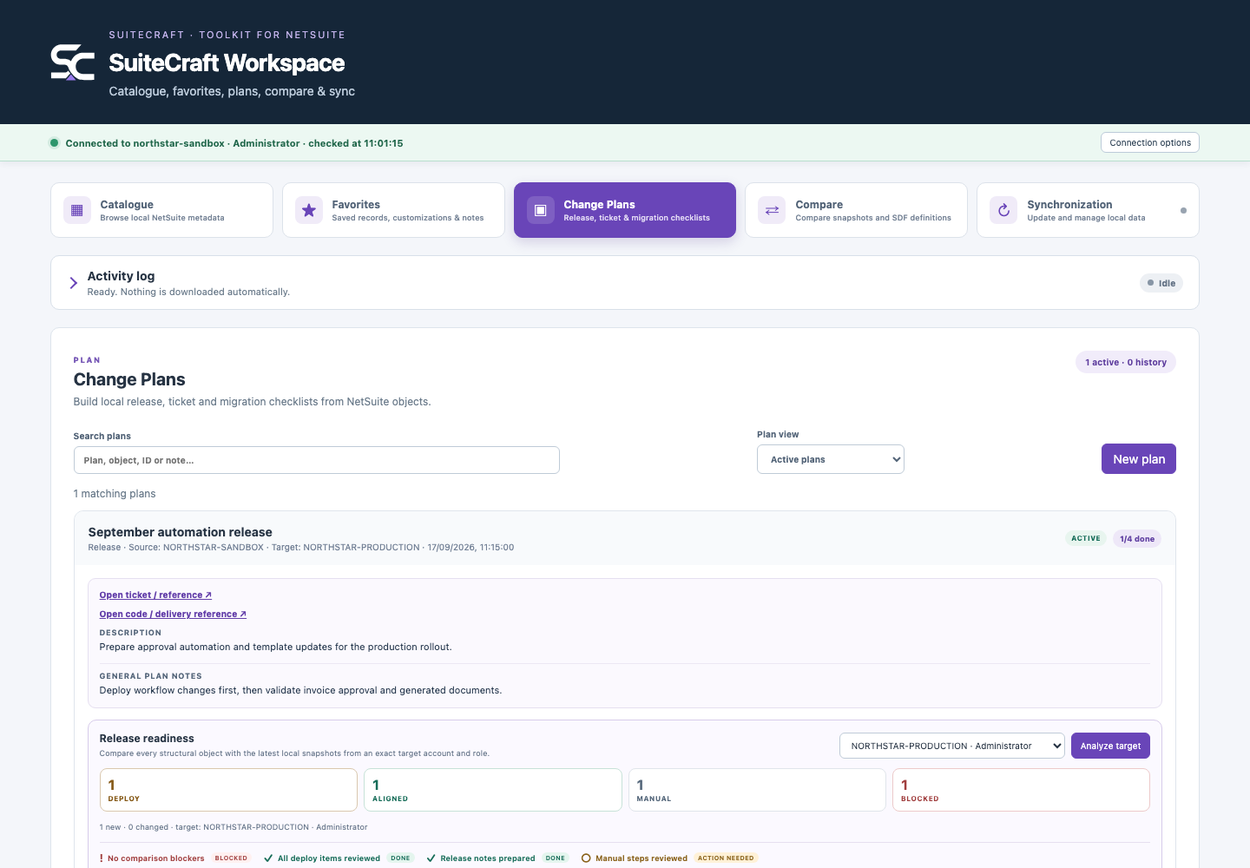
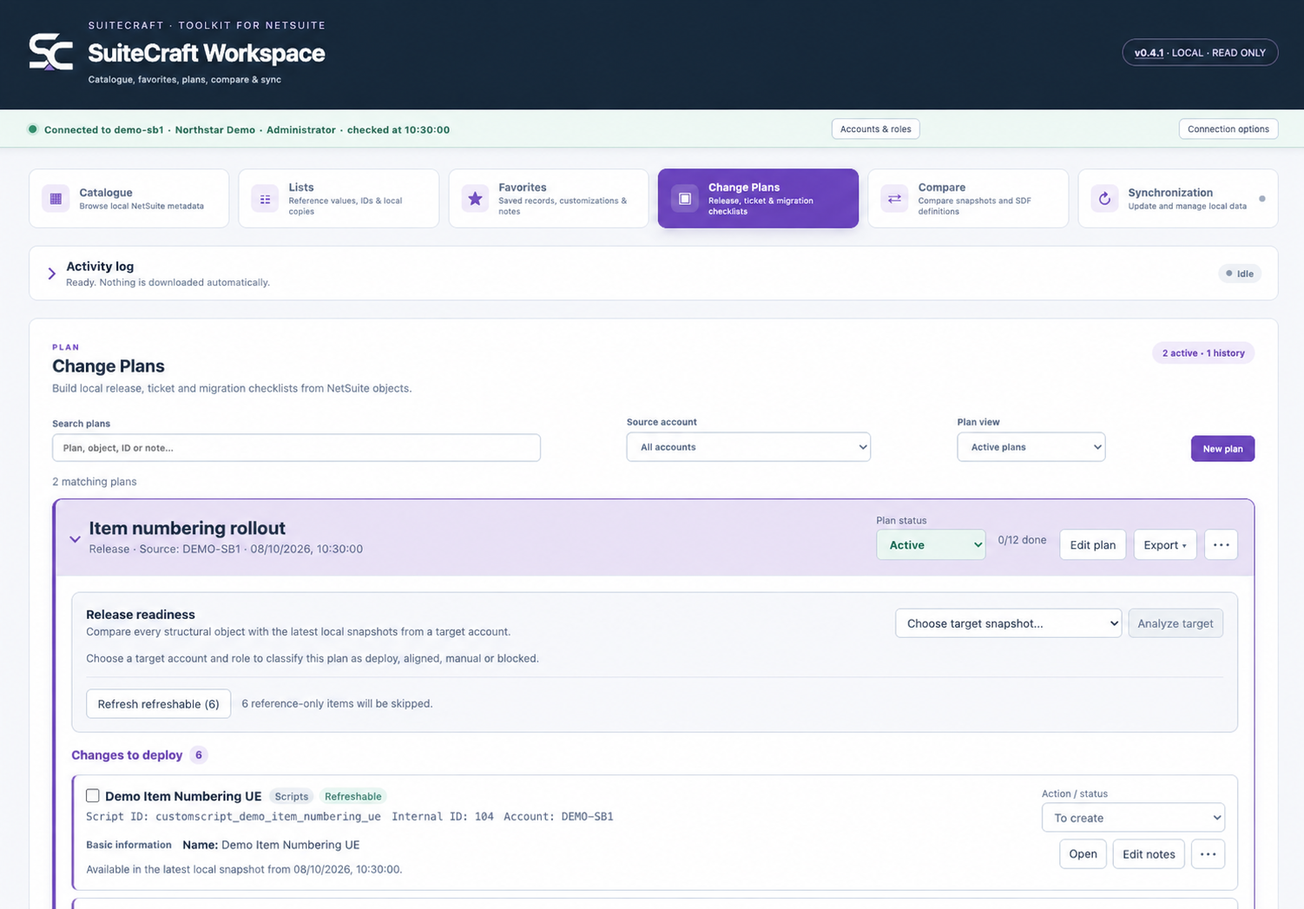
docs: refresh anonymized product screenshots and simplify tour

diff --git a/assets/site.js b/assets/site.js
@@ -10,17 +10,16 @@ menu?.addEventListener('click',event=>{
 document.querySelector('#year').textContent=String(new Date().getFullYear());
 
 const tourSlides=[
- {tab:'Popup menu',kicker:'YOUR TOOLS',title:'The SuiteCraft menu, organized around your work.',description:'Open search, Favorites, record tools and System / Debugger controls from the extension popup.',points:['Search customizations and list values','Contextual record tools','Workspace and settings shortcuts'],image:'01-quick-access.png'},
- {tab:'Navigation search',kicker:'QUICK ACCESS',title:'Find a record or a list value from the menu.',description:'Search Favorites, catalogue objects and saved list values in one compact panel. Narrow results by object type or individual list.',points:['Catalogue and list filters','Copy Internal IDs','Uses the current account and role'],image:'09-navigation-search.png'},
+ {tab:'Popup menu',kicker:'YOUR TOOLS',title:'The SuiteCraft menu, organized around your work.',description:'Open search, Favorites, record tools and System / Debugger controls from the extension popup.',points:['Quick find record and local search','Contextual record tools','Workspace and settings shortcuts'],image:'01-quick-access.png',compact:true},
+ {tab:'Navigation search',kicker:'SUITECRAFT SEARCH',title:'Find menus, fields and local data in one place.',description:'Search menu destinations with their full paths, fields on the current form and local Workspace data. Go to record beside the input carries your ID into the record finder.',points:['All, Menu, This page and Workspace','Locate fields and copy IDs','Favorites, Catalogue and List values filters'],image:'09-navigation-search.png',compact:true},
  {tab:'Lists',kicker:'REFERENCE DATA',title:'Your lookup values, ready when you need them.',description:'Browse standard lists and custom record options in Workspace. Choose the field used as the label and keep each account and role separate.',points:['Standard lists included in main sync','Custom record lists by Script ID or Internal ID','Search, copy and export values'],image:'10-reference-lists.png'},
  {tab:'List synchronization',kicker:'CHOOSE YOUR LISTS',title:'Bring the lists you use into Workspace.',description:'Find lists by name or ID, select what to download and configure custom records as lookup lists.',points:['Compact searchable selection','Selected lists shown first','Field help for custom configurations'],image:'12-list-synchronization.png'},
  {tab:'Settings',kicker:'YOUR SUITECRAFT',title:'Choose your tools and your theme.',description:'Set a light or dark theme across SuiteCraft, explore illustrated feature descriptions and enable the tools you need.',points:['Light and dark modes','Expandable feature help','Dedicated enable and disable switches'],image:'11-settings.png'},
 	{tab:'Catalogue',kicker:'CUSTOMIZATION CATALOGUE',title:'Find the right object in seconds.',description:'Search by name or Script ID, combine filters and inspect the selected object without leaving the catalogue.',points:['Account and category filters','Direct NetSuite links','Favorites and SDF actions'],image:'02-catalogue.png',step:2},
 	{tab:'Favorites',kicker:'ACCOUNT FAVORITES',title:'Keep important NetSuite objects close.',description:'Save frequently used records and customizations with private notes scoped to the relevant account.',points:['Grouped by object type','Account, type and text filters','Direct links back to NetSuite'],image:'06-favorites.png',step:7},
-	{tab:'Change Plans',kicker:'RELEASE PLANNING',title:'Turn a list of changes into a release plan.',description:'Collect structural changes and supporting references, compare them with a target account and prepare practical release notes.',points:['Target readiness and blockers','Release and technical notes','Markdown, CSV and JSON export'],image:'08-change-plans.png',step:8},
+	{tab:'Change Plans',kicker:'RELEASE PLANNING',title:'Turn a list of changes into a release plan.',description:'Keep the plan summary, progress and item actions clear. Collect structural changes and supporting references, compare them with a target account and prepare practical release notes.',points:['Plan progress and item statuses','Target readiness and supporting references','Notes and Markdown, CSV or JSON exports'],image:'08-change-plans.png',step:8},
 	{tab:'Compare',kicker:'SNAPSHOT COMPARISON',title:'See what changed between accounts.',description:'Compare environments or historical versions and inspect meaningful differences property by property.',points:['Added, removed and changed statuses','Stable Script ID matching','Level 2 SDF comparison'],image:'04-compare.png',step:5},
-	{tab:'Sync',kicker:'LOCAL SNAPSHOTS',title:'Refresh metadata only when you choose.',description:'Synchronize selected categories through the signed-in NetSuite tab and continue an interrupted operation.',points:['Manual, category-based synchronization','Optional workflow and record details','Version history and recovery'],image:'05-synchronization.png',step:6},
-	{tab:'Popup',kicker:'EXTENSION POPUP',title:'Search list values without opening Workspace.',description:'Use the extension popup to find a saved list option, copy its ID or open the full list and synchronization controls.',points:['Search the current account','Open Record Explorer or Script & Workflow Inspector','Reach Workspace, Favorites and developer URLs'],image:'13-popup-list-search.png'},
+	{tab:'Sync',kicker:'LOCAL SNAPSHOTS',title:'Refresh metadata at the pace you choose.',description:'Choose categories and detail levels, then synchronize through the signed-in NetSuite tab. Use sequential downloads or bounded parallel modes and compare timings within the session.',points:['Default, Quick, Quickest and Turbo','Optional workflow and record details','Session timings and snapshot recovery'],image:'05-synchronization.png',step:6},
 	{tab:'Record Explorer',kicker:'RECORD INSPECTION',title:'Understand the record in front of you.',description:'Inspect body fields, sublists and Inventory Detail without losing the context of the NetSuite form.',points:['Native and custom field filters','Session pins and sublist context','JSON and CSV export'],image:'03-record-explorer.png',step:3},
 	{tab:'Scripts & workflows',kicker:'SCRIPTED RECORDS',title:'See what is attached to this record type.',description:'Review applicable scripts, deployments and workflows together with the workflow activity available on the current record.',points:['Script and deployment IDs','Entry points, status and ownership','Active workflow and history views'],image:'07-script-workflow-inspector.png',step:4}
 ];
@@ -32,6 +31,7 @@ for(const [index,slide] of tourSlides.entries()){
 function showTourSlide(index){
 	activeTourSlide=Math.max(0,Math.min(tourSlides.length-1,index));const slide=tourSlides[activeTourSlide];
 	tour.media.classList.toggle('overview',!!slide.overview);tour.overview.hidden=!slide.overview;tour.image.hidden=!!slide.overview;
+	tour.media.classList.toggle('compact',!!slide.compact);
 	if(slide.image){tour.image.src=`assets/screenshots/${slide.image}`;tour.image.alt=`SuiteCraft ${slide.tab} interface using synthetic data`;}
 	tour.number.textContent=`${String(activeTourSlide+1).padStart(2,'0')} / ${String(tourSlides.length).padStart(2,'0')}`;tour.kicker.textContent=slide.kicker;tour.title.textContent=slide.title;tour.description.textContent=slide.description;tour.points.replaceChildren(...slide.points.map(value=>{const item=document.createElement('li');item.textContent=value;return item;}));tour.fullscreen.href=slide.step?`demo.html?step=${slide.step}`:`assets/screenshots/${slide.image}`;
 	for(const [buttonIndex,button] of [...tour.tabs.children].entries()){const active=buttonIndex===activeTourSlide;button.classList.toggle('active',active);button.setAttribute('aria-selected',String(active));button.tabIndex=active?0:-1;}

diff --git a/assets/demo.css b/assets/demo.css
@@ -1,1 +1,3 @@
 :root{--navy:#081c35;--purple:#6844c2;--ink:#1c2f44;--muted:#6a798c;--line:#dde4ec;--paper:#f3f5f9}*{box-sizing:border-box}body{margin:0;background:radial-gradient(circle at 75% 18%,#ede5ff 0,transparent 32%),var(--paper);color:var(--ink);font-family:Inter,ui-sans-serif,-apple-system,BlinkMacSystemFont,"Segoe UI",sans-serif}.demo-header{display:flex;align-items:center;justify-content:space-between;min-height:70px;padding:0 clamp(20px,5vw,72px);border-bottom:1px solid rgba(8,28,53,.12);background:rgba(255,255,255,.84);backdrop-filter:blur(14px)}.demo-brand{display:flex;align-items:center;gap:10px;text-decoration:none}.demo-brand img{width:39px;height:39px}.demo-brand span{display:grid}.demo-brand strong{font-size:15px}.demo-brand small{color:var(--muted);font-size:9px}.safe-label{padding:7px 10px;border:1px solid #cce4db;border-radius:18px;background:#f2fbf7;color:#39745f;font-size:9px;font-weight:700}.safe-label i{display:inline-block;width:6px;height:6px;margin-right:6px;border-radius:50%;background:#35a478}.back-link{color:var(--purple);font-size:10px;font-weight:750;text-decoration:none}main{display:grid;grid-template-columns:minmax(285px,.32fr) minmax(650px,1fr);gap:4vw;min-height:calc(100vh - 115px);padding:50px clamp(20px,5vw,72px) 38px}.tour-copy{align-self:center}.tour-copy>p:first-child{margin:0 0 18px;color:var(--purple);font-size:9px;font-weight:800;letter-spacing:1.6px}.tour-copy h1{max-width:450px;margin:0;color:var(--navy);font-size:clamp(38px,3.8vw,58px);letter-spacing:-2.7px;line-height:1.04}.tour-copy>p:last-child{max-width:420px;margin:25px 0 0;color:var(--muted);font-size:13px;line-height:1.75}.stage-wrap{position:relative;align-self:center}.stage{display:grid;place-items:center;min-height:520px;overflow:hidden;border:1px solid rgba(8,28,53,.16);border-radius:15px;background:#eef1f6;box-shadow:0 27px 75px rgba(8,28,53,.15)}.product-screen{display:block;width:100%;height:100%;max-height:620px;object-fit:cover;object-position:top center}.product-screen.popup-screen{width:auto;max-width:100%;height:520px;object-fit:contain;box-shadow:0 15px 40px rgba(8,28,53,.13)}.callout{position:absolute;right:-18px;bottom:-22px;display:flex;align-items:flex-start;gap:10px;max-width:310px;padding:15px;border:1px solid #d9cff0;border-radius:10px;background:#fff;box-shadow:0 12px 35px rgba(8,28,53,.13)}.callout>span{display:grid;place-items:center;flex:0 0 auto;width:22px;height:22px;border-radius:50%;background:var(--purple);color:#fff;font-size:9px;font-weight:800}.callout p{margin:1px 0 0;color:#526478;font-size:9px;line-height:1.5}.tour-controls{grid-column:2;display:flex;align-items:center;justify-content:center;gap:13px}.tour-controls>button{width:34px;height:34px;border:1px solid #cfd7e1;border-radius:50%;background:#fff;color:var(--navy);cursor:pointer}.tour-controls>button:disabled{opacity:.35}.tour-controls>div{display:flex;gap:6px}.tour-controls>div button{width:8px;height:8px;padding:0;border:0;border-radius:50%;background:#c3ccd7;cursor:pointer}.tour-controls>div button.active{width:24px;border-radius:5px;background:var(--purple)}#step-count{min-width:32px;color:#748294;font-size:9px;text-align:center}footer{display:flex;justify-content:space-between;padding:14px clamp(20px,5vw,72px);background:var(--navy);color:#91a1b3;font-size:8px}footer a{color:#c3b2ed;text-decoration:none}@media(max-width:980px){main{grid-template-columns:1fr}.tour-copy{max-width:700px}.tour-controls{grid-column:1}.stage{min-height:460px}}@media(max-width:650px){.safe-label{display:none}.back-link{font-size:0}.back-link span{font-size:14px}main{padding:40px 15px}.tour-copy h1{font-size:40px}.stage{min-height:300px}.product-screen{max-height:430px}.product-screen.popup-screen{height:430px}.callout{right:5px}.demo-header{padding:0 15px}}
+/* Show the full current screenshot rather than cropping its controls. */
+.product-screen{object-fit:contain}

diff --git a/assets/demo.js b/assets/demo.js
@@ -1,10 +1,10 @@
 const steps=[
-	{image:'01-quick-access.png',kicker:'01 · QUICK ACCESS',title:'Your daily tools, one click away.',description:'Search the current account, open Workspace and reach record tools without leaving the current task.',callout:'Start with the focused popup and move directly to the tool you need.'},
+	{image:'01-quick-access.png',kicker:'01 · POPUP MENU',title:'Your daily tools, one click away.',description:'Search the current account, open Workspace and reach record tools without leaving the current task.',callout:'Start with the focused popup and move directly to the tool you need.'},
 	{image:'02-catalogue.png',kicker:'02 · CUSTOMIZATION CATALOGUE',title:'Find the right object in seconds.',description:'Search by name, Script ID or file, combine filters and inspect the selected object in one workspace.',callout:'Open definitions, keep Favorites and refresh selected metadata from the catalogue.'},
 	{image:'03-record-explorer.png',kicker:'03 · RECORD EXPLORER',title:'Understand the record in front of you.',description:'Inspect body fields, sublists and Inventory Detail, then pin the fields you need while working.',callout:'Field IDs, labels and current values stay clearly separated and searchable.'},
 	{image:'07-script-workflow-inspector.png',kicker:'04 · SCRIPTED RECORDS',title:'See what is attached to this record type.',description:'Review scripts, deployments, workflows and available workflow activity without editing the underlying configuration.',callout:'IDs, entry points, status and ownership stay visible in one read-only inspector.'},
 	{image:'04-compare.png',kicker:'05 · SNAPSHOT COMPARISON',title:'See what changed between accounts.',description:'Compare environments or historical versions and inspect meaningful differences property by property.',callout:'Comparison matching follows stable Script IDs and supports deeper SDF inspection.'},
-	{image:'05-synchronization.png',kicker:'06 · LOCAL SNAPSHOTS',title:'Refresh metadata only when you choose.',description:'Select categories, request full details and continue interrupted synchronization through the signed-in NetSuite tab.',callout:'Completed work is retained so a lost connection does not always mean starting again.'},
+	{image:'05-synchronization.png',kicker:'06 · LOCAL SNAPSHOTS',title:'Refresh metadata at the pace you choose.',description:'Select categories and full details, then use Default, Quick, Quickest or experimental Turbo through the signed-in NetSuite tab.',callout:'Compare session timings while retaining verified snapshots and recovery options.'},
 	{image:'06-favorites.png',kicker:'07 · ACCOUNT FAVORITES',title:'Keep important NetSuite objects close.',description:'Save objects with private notes and browse them by account, type, date or search term.',callout:'Favorites remain private and scoped to the relevant account.'},
 	{image:'08-change-plans.png',kicker:'08 · RELEASE PLANNING',title:'Know what is ready to deploy.',description:'Collect release changes and supporting references, compare structural objects with the target account and prepare release notes.',callout:'Readiness separates deploy work, aligned objects, manual steps and blockers.'}
 ];

diff --git a/index.html b/index.html
@@ -90,17 +90,17 @@
 				<p>Explore SuiteCraft through real product screens that show how each tool fits into everyday NetSuite work.</p>
 			</div>
 			<div class="tour-frame">
-				<div id="tour-media" class="tour-media overview" tabindex="0" aria-label="SuiteCraft product tour. Use left and right arrow keys to change slides.">
+				<div id="tour-media" class="tour-media compact" tabindex="0" aria-label="SuiteCraft product tour. Use left and right arrow keys to change slides.">
 					<div id="tour-overview" class="tour-overview" hidden></div>
-					<img id="tour-image" class="tour-image" src="assets/screenshots/02-catalogue.png" alt="">
+					<img id="tour-image" class="tour-image" src="assets/screenshots/01-quick-access.png" alt="SuiteCraft Popup menu interface using fictional sample data">
 				</div>
 				<aside class="tour-copy" aria-live="polite">
-					<span id="tour-number">01 / 08</span>
-					<p id="tour-kicker">CUSTOMIZATION CATALOGUE</p>
-					<h3 id="tour-title">Find the right object in seconds.</h3>
-					<p id="tour-description">Search by name or Script ID, combine filters and inspect the selected object without leaving the catalogue.</p>
-					<ul id="tour-points"><li>Search the current account</li><li>Open Record Explorer or Script &amp; Workflow Inspector</li><li>Reach Workspace, Favorites and developer URLs</li></ul>
-					<a id="tour-fullscreen" href="demo.html?step=2">Open full-screen tour <span aria-hidden="true">↗</span></a>
+					<span id="tour-number">01 / 12</span>
+					<p id="tour-kicker">YOUR TOOLS</p>
+					<h3 id="tour-title">The SuiteCraft menu, organized around your work.</h3>
+					<p id="tour-description">Open search, Favorites, record tools and System / Debugger controls from the extension popup.</p>
+					<ul id="tour-points"><li>Quick find record and local search</li><li>Contextual record tools</li><li>Workspace and settings shortcuts</li></ul>
+					<a id="tour-fullscreen" href="assets/screenshots/01-quick-access.png">Open full-screen tour <span aria-hidden="true">↗</span></a>
 					<div class="tour-arrows"><button id="tour-previous" type="button" aria-label="Previous product tour slide">←</button><button id="tour-next" type="button" aria-label="Next product tour slide">→</button></div>
 				</aside>
 			</div>

diff --git a/assets/site.css b/assets/site.css
@@ -35,4 +35,9 @@ body{overflow-x:hidden}.hero>*{min-width:0}.browser-card,.tour-frame,.tour-media
 .tour-tabs button span{font-size:9px}.tour-tabs button strong{font-size:11px}
 .beta p:not(.eyebrow),.about p:not(.eyebrow){font-size:14px}.beta-action small{font-size:11px}.status-pill{font-size:11px}
 .footer-brand span,.site-footer p{font-size:10px}.footer-links a{font-size:11px}
-.tour-tabs{grid-template-columns:repeat(8,1fr)}
+.tour-tabs{grid-template-columns:repeat(6,1fr)}
+@media(max-width:1050px){.tour-tabs{grid-template-columns:repeat(4,1fr)}}
+@media(max-width:720px){.tour-tabs{grid-template-columns:repeat(2,1fr)}}
+/* Preserve entire screenshots, including portrait popup and compact search. */
+.tour-media{height:590px;min-height:0}.tour-image{width:100%;height:100%;min-height:0;object-fit:contain;object-position:center}.tour-media.compact .tour-image{width:auto;height:auto;max-width:calc(100% - 48px);max-height:560px;box-shadow:0 12px 36px rgba(8,28,53,.15)}
+@media(max-width:720px){.tour-media{height:310px;min-height:0}.tour-image{min-height:0}.tour-media.compact .tour-image{max-width:calc(100% - 24px);max-height:286px}}

diff --git a/assets/screenshots/source/anonymization-prompts.md b/assets/screenshots/source/anonymization-prompts.md
@@ -1,0 +1,23 @@
+# Screenshot anonymization prompts
+
+These edits use the built-in image-generation tool. Supplied source captures remain outside the repository. Preserve the real UI and replace identifying text with fictional Northstar Demo data; do not introduce product features.
+
+## popup
+
+Use case: text-localization. Asset type: a real SuiteCraft UI screenshot for a public product tour. Input image 1 is the edit target, not merely a style reference. Make a precise screenshot text edit. Preserve the exact existing interface, layout, spacing, font families, font sizes, icon shapes, logo, colors, borders, selected controls and visible UI actions. Do not redesign or invent controls. Render clean legible text with no blur, masking blocks, watermark or annotation. Replace private account, person, organization and customization identifiers with fictional sample data only. Preserve the original composition and aspect ratio unless a crop is explicitly requested. Output only the finished screenshot.
+For this popup screenshot: crop away the thin slivers of the underlying browser page outside the popup border so none of the underlying page remains. Keep the popup panel and all its visible contents exactly as supplied, including its scrollbar. Change only the footer version text to "v0.4.1". Keep every other visible SuiteCraft label and button verbatim. No private account data should remain at the edges.
+
+## search
+
+Use case: text-localization. Asset type: a real SuiteCraft UI screenshot for a public product tour. Input image 1 is the edit target, not merely a style reference. Make a precise screenshot text edit. Preserve the exact existing interface, layout, spacing, font families, font sizes, icon shapes, logo, colors, borders, selected controls and visible UI actions. Do not redesign or invent controls. Render clean legible text with no blur, masking blocks, watermark or annotation. Replace private account, person, organization and customization identifiers with fictional sample data only. Preserve the original composition and aspect ratio unless a crop is explicitly requested. Output only the finished screenshot.
+For this Navigation Search screenshot, keep the top NetSuite navigation bar and entire SuiteCraft Search panel. Replace the small account/person/company/role context line with exactly "DEMO-SB1 · Northstar Demo · Administrator". In all THREE places (the input, the purple field ID result, and the Catalogue result detail), replace the current custom field ID with exactly "custitem_demo_auto_number". Keep the display name "Auto Item Number" and checkbox value "Yes". Replace the snapshot timestamp with "08/10/2026, 10:30:00". Keep All, Menu, This page, Workspace, Go to record ↗, Locate, Copy ID, Details and footer actions unchanged. No original account number, person's name, organization name or customization prefix may remain.
+
+## plans
+
+Use case: text-localization. Asset type: a real SuiteCraft UI screenshot for a public product tour. Input image 1 is the edit target, not merely a style reference. Make a precise screenshot text edit. Preserve the exact existing interface, layout, spacing, font families, font sizes, icon shapes, logo, colors, borders, selected controls and visible UI actions. Do not redesign or invent controls. Render clean legible text with no blur, masking blocks, watermark or annotation. Replace private account, person, organization and customization identifiers with fictional sample data only. Preserve the original composition and aspect ratio unless a crop is explicitly requested. Output only the finished screenshot.
+For this Change Plans screenshot, preserve the entire full-page viewport and current open plan with the first item. Replace the top green connection text with exactly "Connected to demo-sb1 · Northstar Demo · Administrator · checked at 10:30:00". Replace all occurrences of the private account number (upper or lower case) with "DEMO-SB1". Replace the plan title with "Item numbering rollout". Replace its metadata with exactly "Release · Source: DEMO-SB1 · 08/10/2026, 10:30:00". Replace the first script item title and its Basic information Name with "Demo Item Numbering UE". Replace the Script ID with "customscript_demo_item_numbering_ue" and Internal ID with "104". Show its account as "DEMO-SB1". Replace the last local snapshot timestamp with "08/10/2026, 10:30:00". For consistent fictional counts, show "2 active · 1 history" in the purple badge and "2 matching plans" above the card; retain the open plan's 0/12 done and 6 changes/6 references. Keep the v0.4.1 badge, all native headings, field names, actions, dropdowns, checkboxes and layout unchanged. No original person, company, private account, plan reference or script identifier may remain, including at the cropped bottom edge.
+
+## sync
+
+Use case: text-localization. Asset type: a real SuiteCraft UI screenshot for a public product tour. Input image 1 is the edit target, not merely a style reference. Make a precise screenshot text edit. Preserve the exact existing interface, layout, spacing, font families, font sizes, icon shapes, logo, colors, borders, selected controls and visible UI actions. Do not redesign or invent controls. Render clean legible text with no blur, masking blocks, watermark or annotation. Replace private account, person, organization and customization identifiers with fictional sample data only. Preserve the original composition and aspect ratio unless a crop is explicitly requested. Output only the finished screenshot.
+For this Synchronization screenshot, keep the full original viewport and all category checkboxes and speed controls exactly as shown. Replace the top green connection line with "Connected to demo-sb1 · Northstar Demo · Administrator · checked at 10:30:00". In the green NetSuite connection card, replace the account/person/organization/timestamp text with exactly "Connected to demo-sb1 · Northstar Demo · Administrator · checked at 10:30:00 · module: deterministic-list-scope-1" and wrap naturally within the same card. Retain the version v0.4.1 and all other headings, labels, buttons, helpful text and checked state verbatim. Do not add extra UI or change the selected Default speed. No original person, organization or account identifier may remain.

diff --git a/assets/screenshots/README.md b/assets/screenshots/README.md
@@ -1,9 +1,9 @@
 # Product screenshots
 
-Captured from the real SuiteCraft interface through the permanent SuiteCraft Lab scenarios. `demo.html?step=N` presents these images as a deterministic product tour. All visible account, object ID and value examples are fictional and contain no client information.
+Screens show the real SuiteCraft interface. Most are captured through the permanent SuiteCraft Lab scenarios; the 0.4.1 popup, navigation search, Change Plans and synchronization images use supplied captures with identifying text replaced using the built-in image-generation editor. `demo.html?step=N` presents these images as a deterministic product tour. All visible account, object ID and value examples are fictional and contain no client information.
 
-Tour images use a consistent 1440×1000 landscape canvas. Run `npm run marketing:screenshots` from the extension repository to refresh them. The command opens isolated, headless Chrome or Brave sessions and writes the current product scenes directly into this directory.
+Workspace images use a landscape canvas; popup and navigation search images retain their compact proportions and are displayed in full. Run `npm run marketing:screenshots` from the extension repository to capture the lab scenes. The command opens isolated, headless Chrome or Brave sessions and writes the current product scenes directly into this directory; review its output before replacing manually curated screenshots.
 
-Refresh only the affected images after a UI change. Product version labels and test-environment badges are intentionally hidden in marketing captures so routine releases do not make otherwise current screenshots look stale.
+Refresh only the affected images after a UI change. Lab captures hide product version labels and test-environment badges; the curated 0.4.1 captures show the matching current version. Raw supplied captures containing private identifiers are not stored in this repository. Editing prompts are documented in `source/anonymization-prompts.md`.
 
 Do not replace these files with captures from a client account unless all customer data and account identifiers have been removed and the result has been reviewed before publication.
